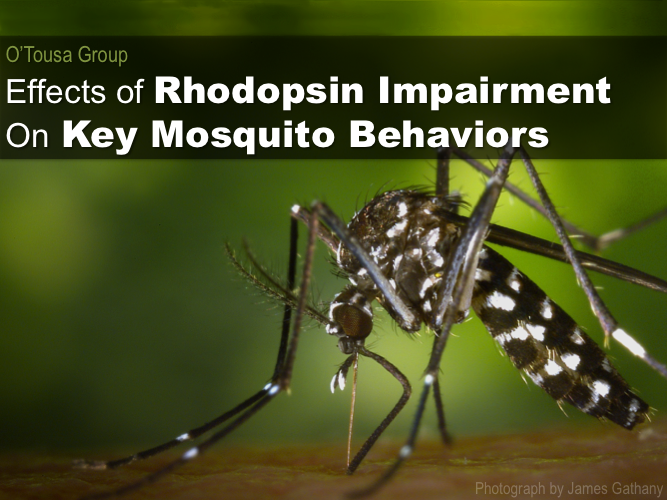
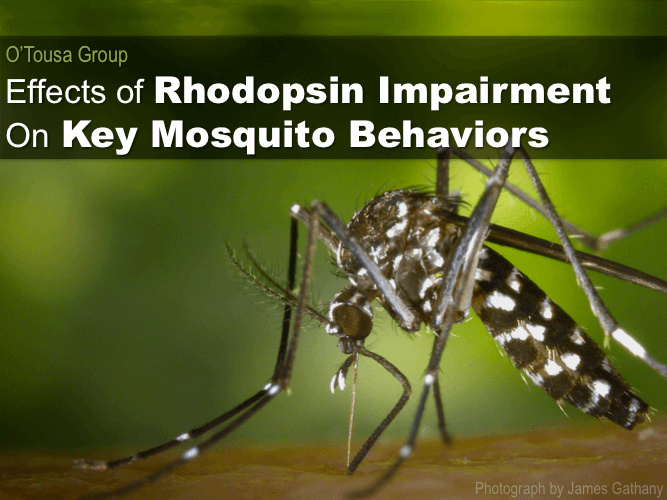
compresses images and changes thumbnail margin

diff --git a/css/app.css b/css/app.css
@@ -73,7 +73,7 @@ button.menu-icon:after {
 #first .thumbnail-wrapper {
 	position: relative;
 	max-width: 150px;
-	margin: 0 auto;
+	margin: 1rem auto;
 }
 #first .detail {
 	background: transparent;
